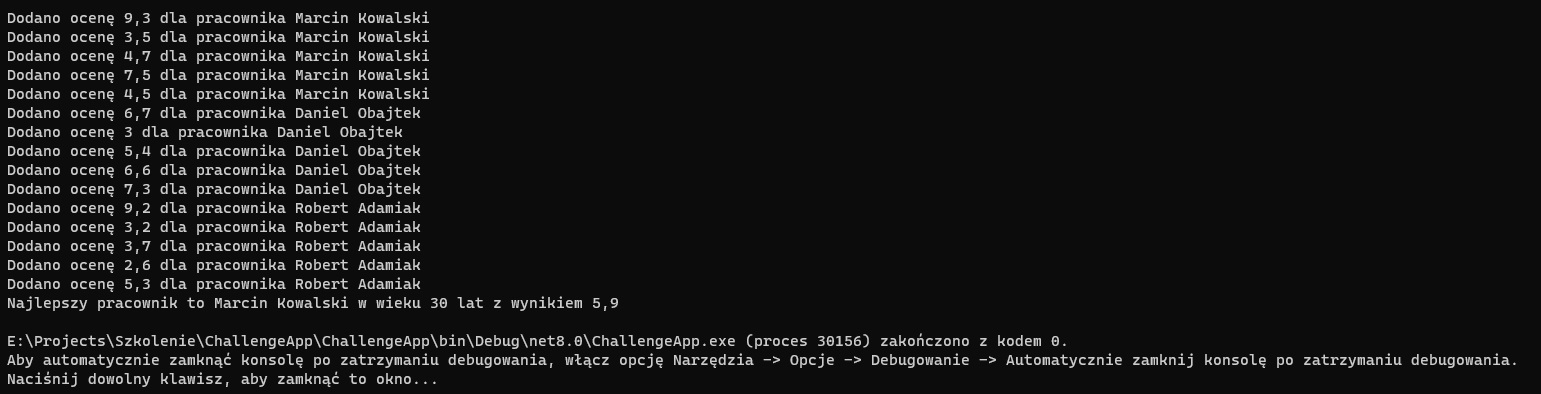
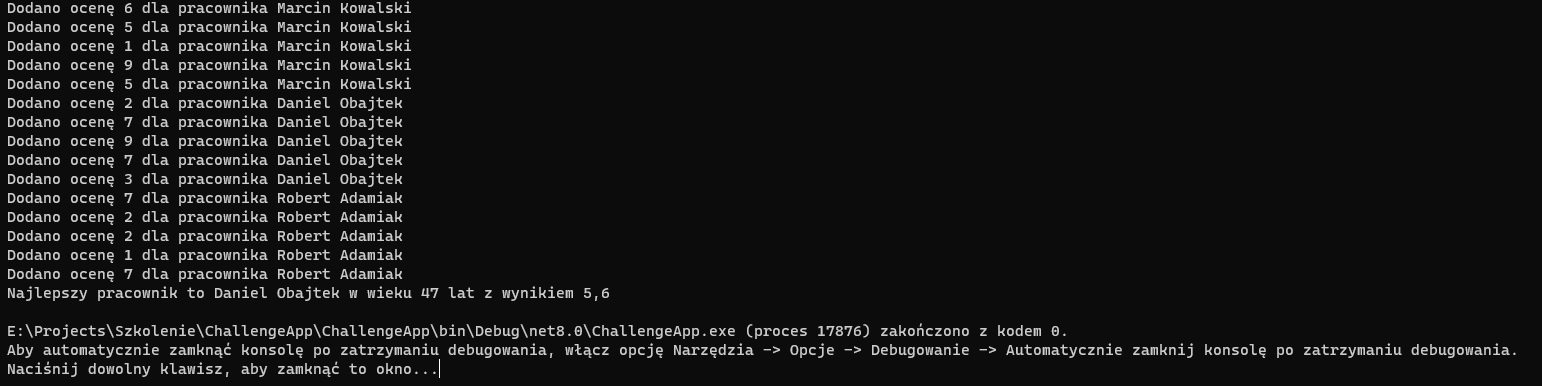
Day 6 - Update to integer personal score and float AverageScoreDecimalNumbers

Changed region(s): [[0.0, 0.0, 0.4049, 0.8083], [0.0, 0.8394, 0.9968, 0.9948]]

diff --git a/ChallengeApp/Day6/Day6.cs b/ChallengeApp/Day6/Day6.cs
@@ -14,13 +14,14 @@
 namespace ChallengeApp.Day6;
 
 public class Day6 {
-    public static int ScoreDecimalNumbers { get; } = 1;
+    public static int PersonalScoreDecimalNumbers { get; } = 0;
+    public static int AverageScoreDecimalNumbers { get; } = 1;
 
     public void MainFunction() {
 
         var random = new Random();
-        var min = 1.0f;
-        var max = 10.0f;
+        var min = 1.0;
+        var max = 10.0;
         var scoreCount = 5;
 
         Employee? bestEmployee = null;
@@ -33,7 +34,7 @@ public class Day6 {
 
         foreach (var employee in employeeList) {
             for (int i = 0; i < scoreCount; i++) {
-                var randToAdd = (float)Math.Round(random.NextDouble() * (max - min) + min, ScoreDecimalNumbers);
+                var randToAdd = (int)Math.Round(random.NextDouble() * (max - min) + min, PersonalScoreDecimalNumbers);
                 Console.WriteLine($"Dodano ocenę {randToAdd} dla pracownika {employee.Name} {employee.Surname}");
                 employee.AddScore(randToAdd);
             }

diff --git a/ChallengeApp/Day6/Employee.cs b/ChallengeApp/Day6/Employee.cs
@@ -1,6 +1,6 @@
 namespace ChallengeApp.Day6;
 public class Employee {
-    private List<float> score = new List<float>();
+    private List<int> score = new List<int>();
 
 
     public Employee(string name, string surname, int age) {
@@ -15,11 +15,11 @@ public class Employee {
     public float Score {
         get {
 
-            return (float)Math.Round(score.Average(), Day6.ScoreDecimalNumbers);
+            return (float)Math.Round(score.Average(), Day6.AverageScoreDecimalNumbers);
         }
     }
 
-    public void AddScore(float rating) {
+    public void AddScore(int rating) {
         this.score.Add(rating);
     }
 
